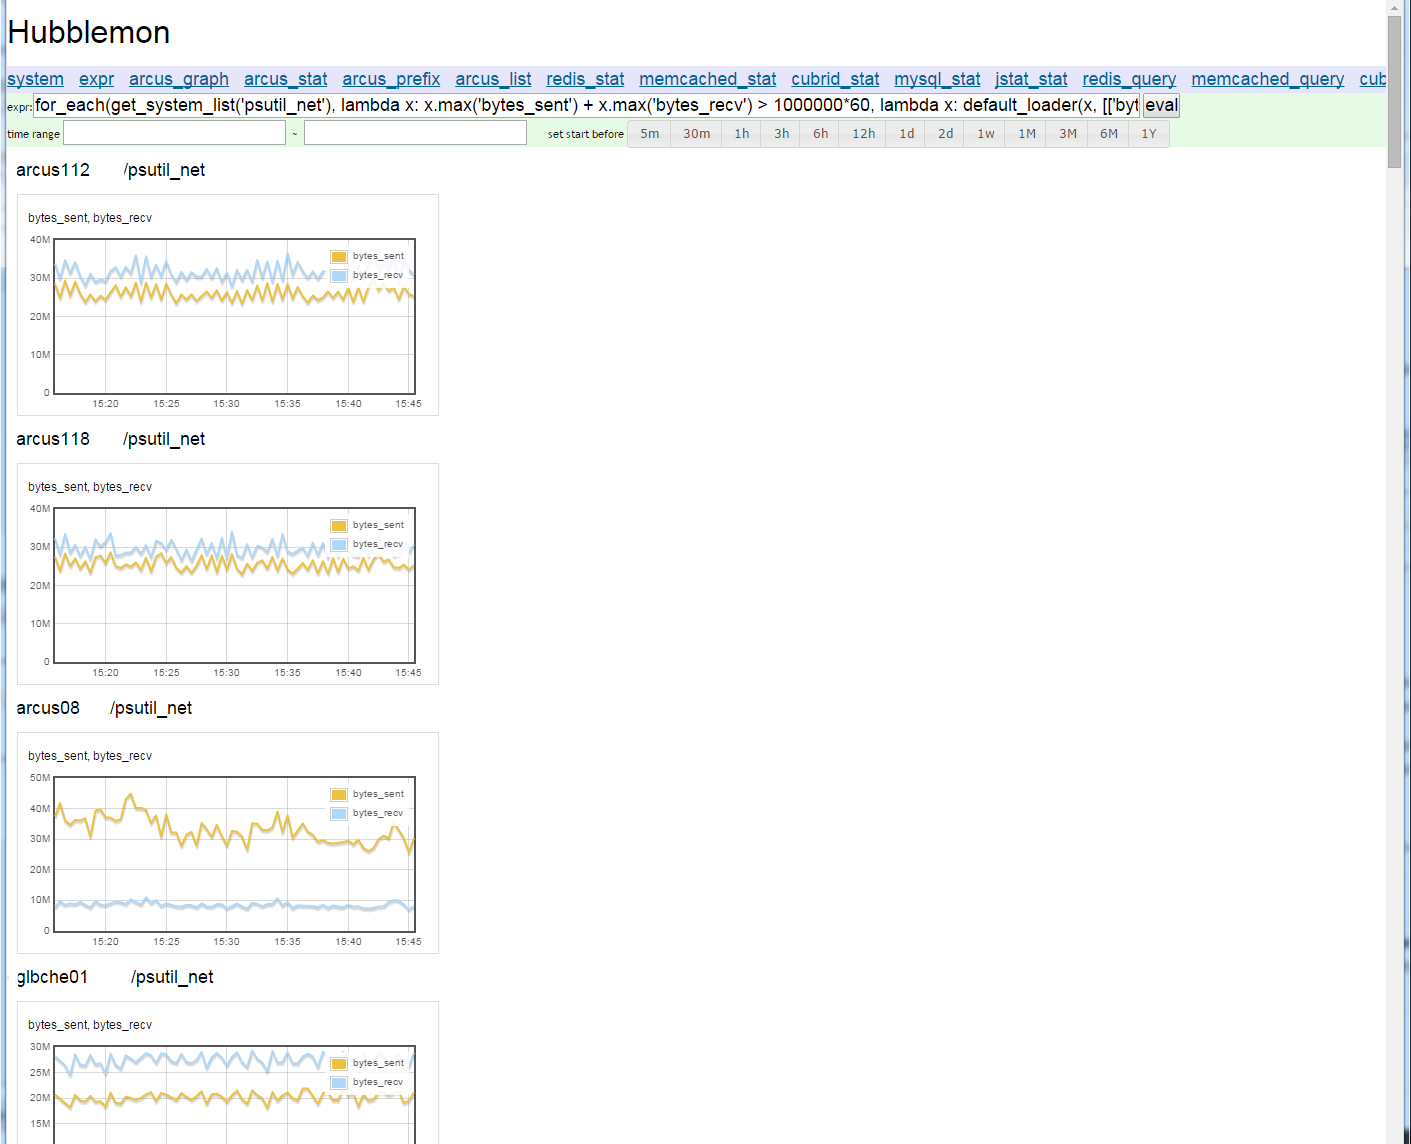
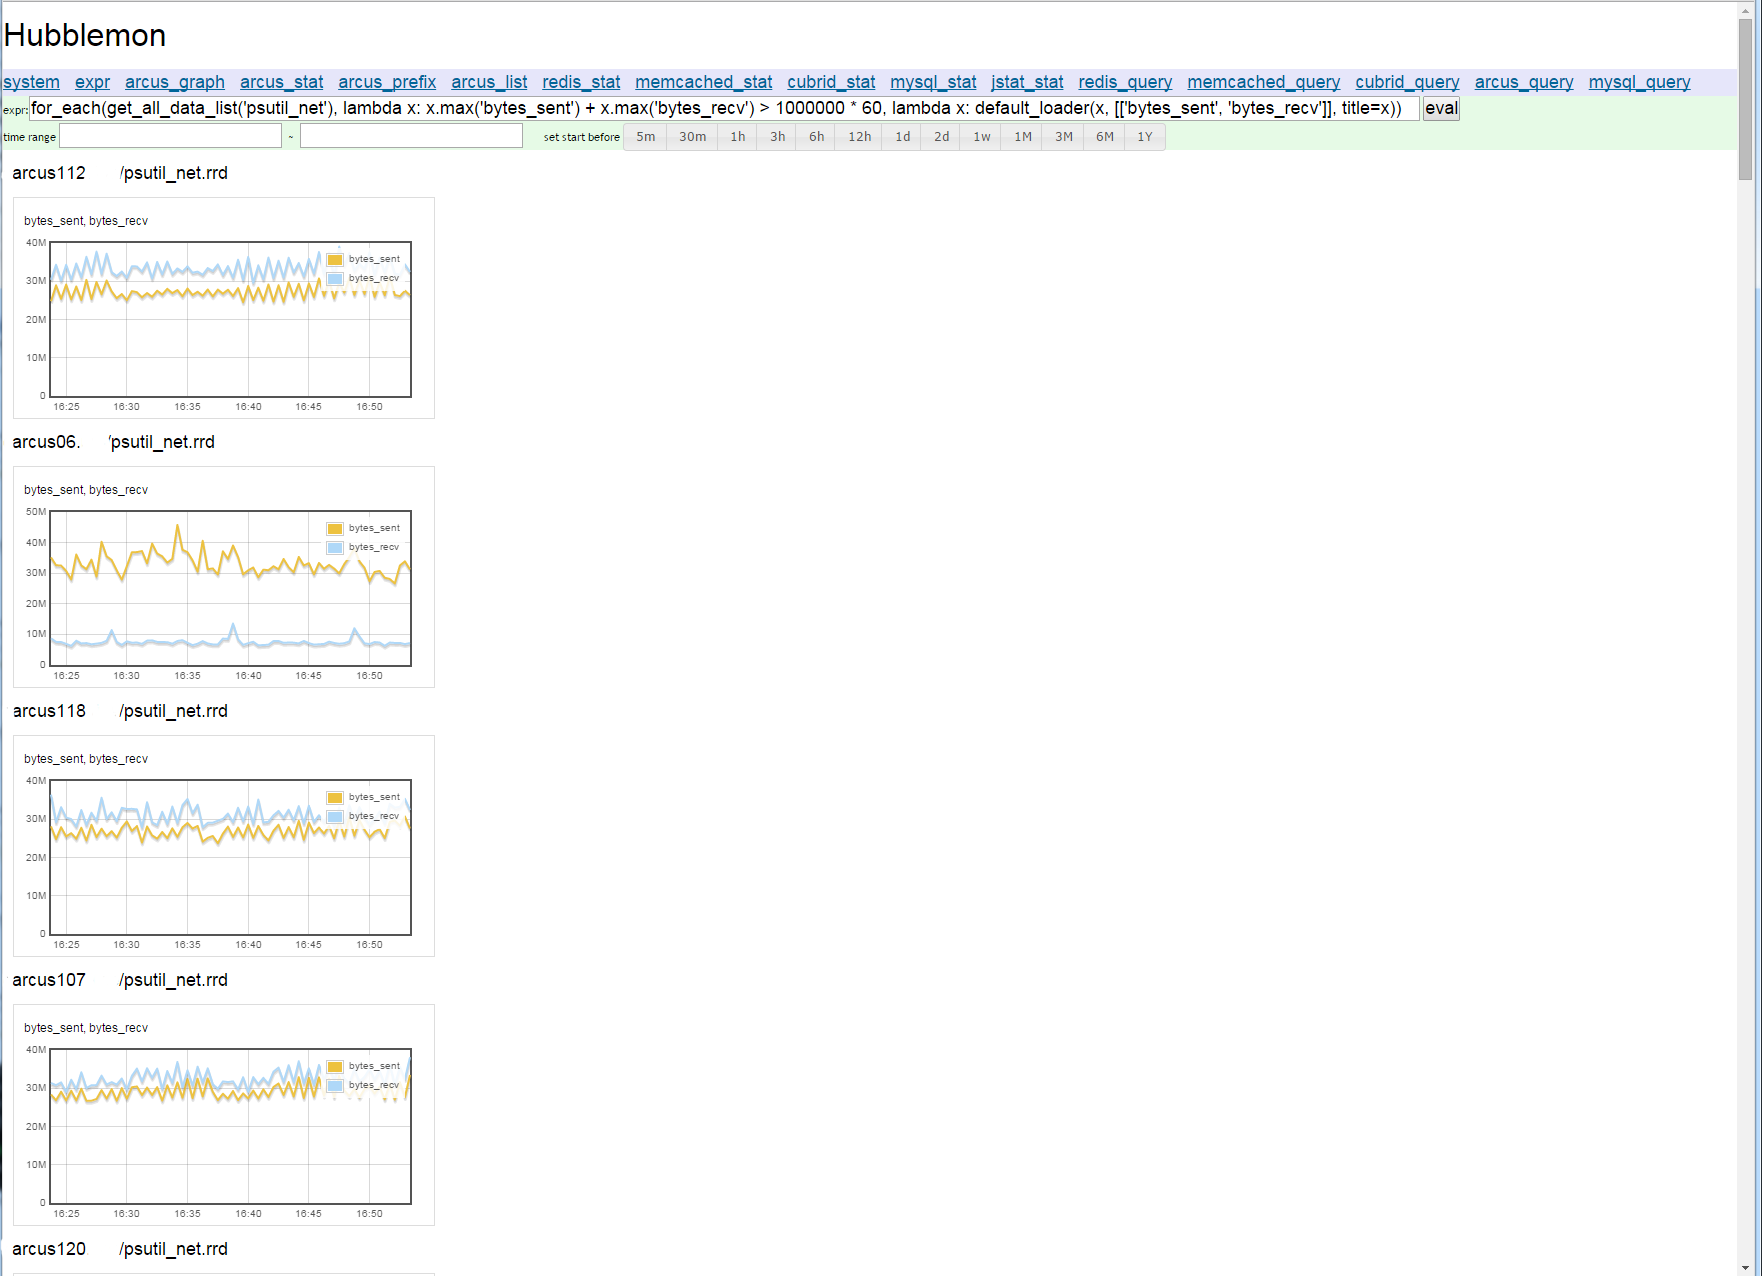
fix readme

Changed region(s): [[0.0, 0.0, 1.0, 1.0]]

diff --git a/Readme.md b/Readme.md
@@ -5,6 +5,8 @@ Hubblemon is a general purpose system, application monitoring & management tool 
 It's made for Arcus (memcached cloud for Naver corp) monitoring first time.
 And now it support various client plugins.
 
+(You can read Korean readme file [here](Readme.kr.md))
+
 
 ## Supported client
 
@@ -57,7 +59,7 @@ Below page is mysql query. Hubblemon sends mysql query and prints results.
 
 In eval mode, 'conn' and 'cursor' variable is pre-setted and user use this value for script.
 
-In below page, conn is pre-set as memcached connection of xmon01.arcus(11211 port)
+In below page, conn is pre-set as memcached connection of test.mc (11211 port)
 Script set 0 to 99 to memcached and recevie them as list.
 Hubblemon prints lists with return_as_string(ret, p)
 p is an inner variable to handle parameter. Hubblemon prints p['result'] which is set in return_as_string 
@@ -65,7 +67,7 @@ p is an inner variable to handle parameter. Hubblemon prints p['result'] which i
 ![eval memcached](doc/img/rm_eval_memcached.png)
 
 Here is another example,
-conn and cursor is pre-set as mysql connection and cursor of Mysql in xmon01.arcus 
+conn and cursor is pre-set as mysql connection and cursor of Mysql in test.mysql
 Script creates table and inserts 0 to 99 to table and select them.
 return_as_table(cursor, p) make html table from DB cursor.
 
@@ -83,7 +85,7 @@ Below expr page is made using python eval. It eval python script expression in i
 
 So, User can do everything with saved data files in this page.
 
-Simply, read data like below. It calls default_loader function which is  pre-defined in hubblemon. That function read cpu stats of ccon01.arcus machine and select user, system, idle stats.
+Simply, read data like below. It calls default_loader function which is  pre-defined in hubblemon. That function read cpu stats of test.arcus machine and select user, system, idle stats.
 
 ![expr default loader](doc/img/rm_expr_default_loader.png)
 
@@ -104,12 +106,12 @@ for_each function read all stat datas of data_list and pass it two second filter
 
 for some examples,
 
-below expression traverse all clients (get_system_list returns all clients which send stats to hubblmon server) and find bytes_recv + bytes_send are over 60M bytes,
+below expression traverse all clients (get_all_data_list(preifx) returns all data in each clients which starts with prefix) and find bytes_recv + bytes_send are over 60M bytes,
 And show that lists
 
 With this expression, You can find heavy clients.
 
-	for_each(get_system_list('psutil_net'), lambda x: x.max('bytes_sent') + x.max('bytes_recv') > 1000000*60, lambda x: default_loader(x, [['bytes_sent', 'bytes_recv']], title = x))
+	for_each(get_all_data_list('psutil_net'), lambda x: x.max('bytes_sent') + x.max('bytes_recv') > 1000000*60, lambda x: default_loader(x, [['bytes_sent', 'bytes_recv']], title = x))
 
 ![for_each net](doc/img/rm_for_each_net.png)
 
